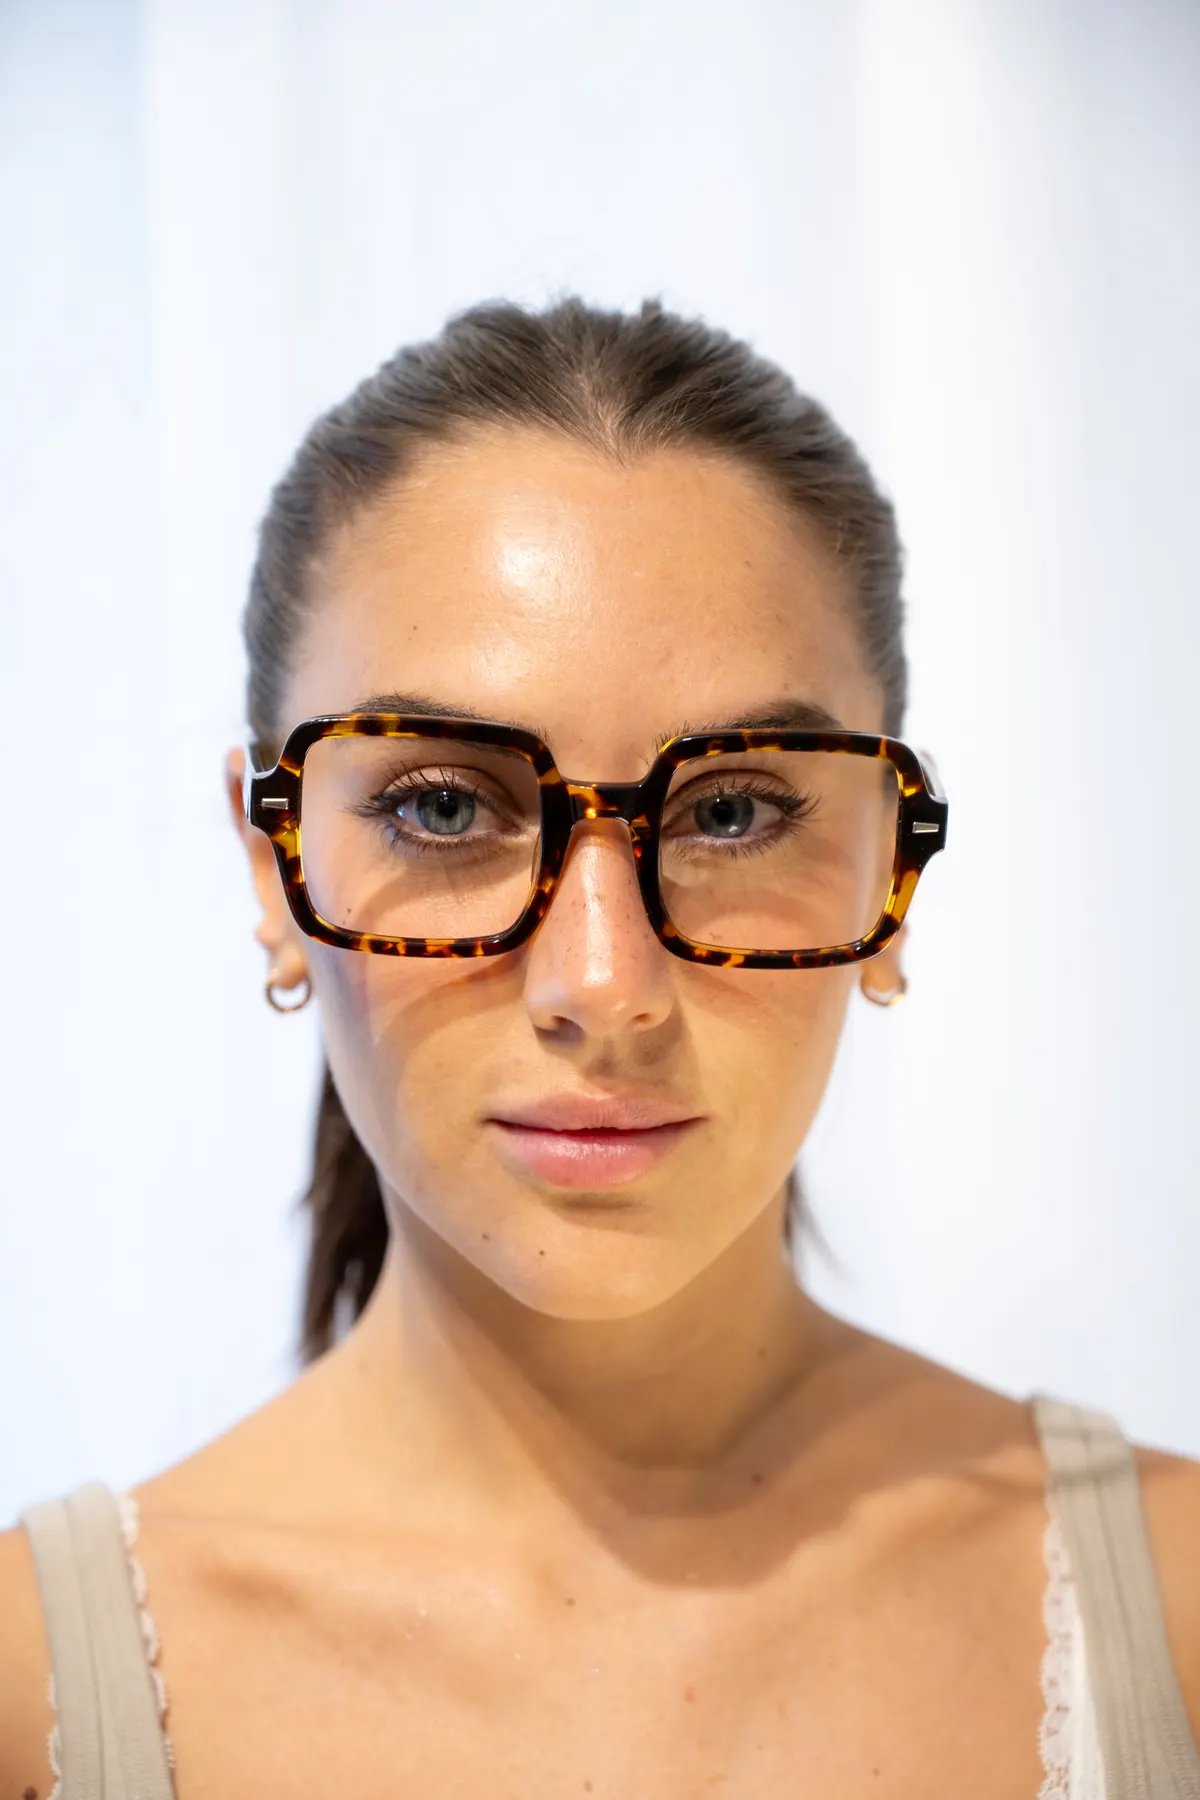
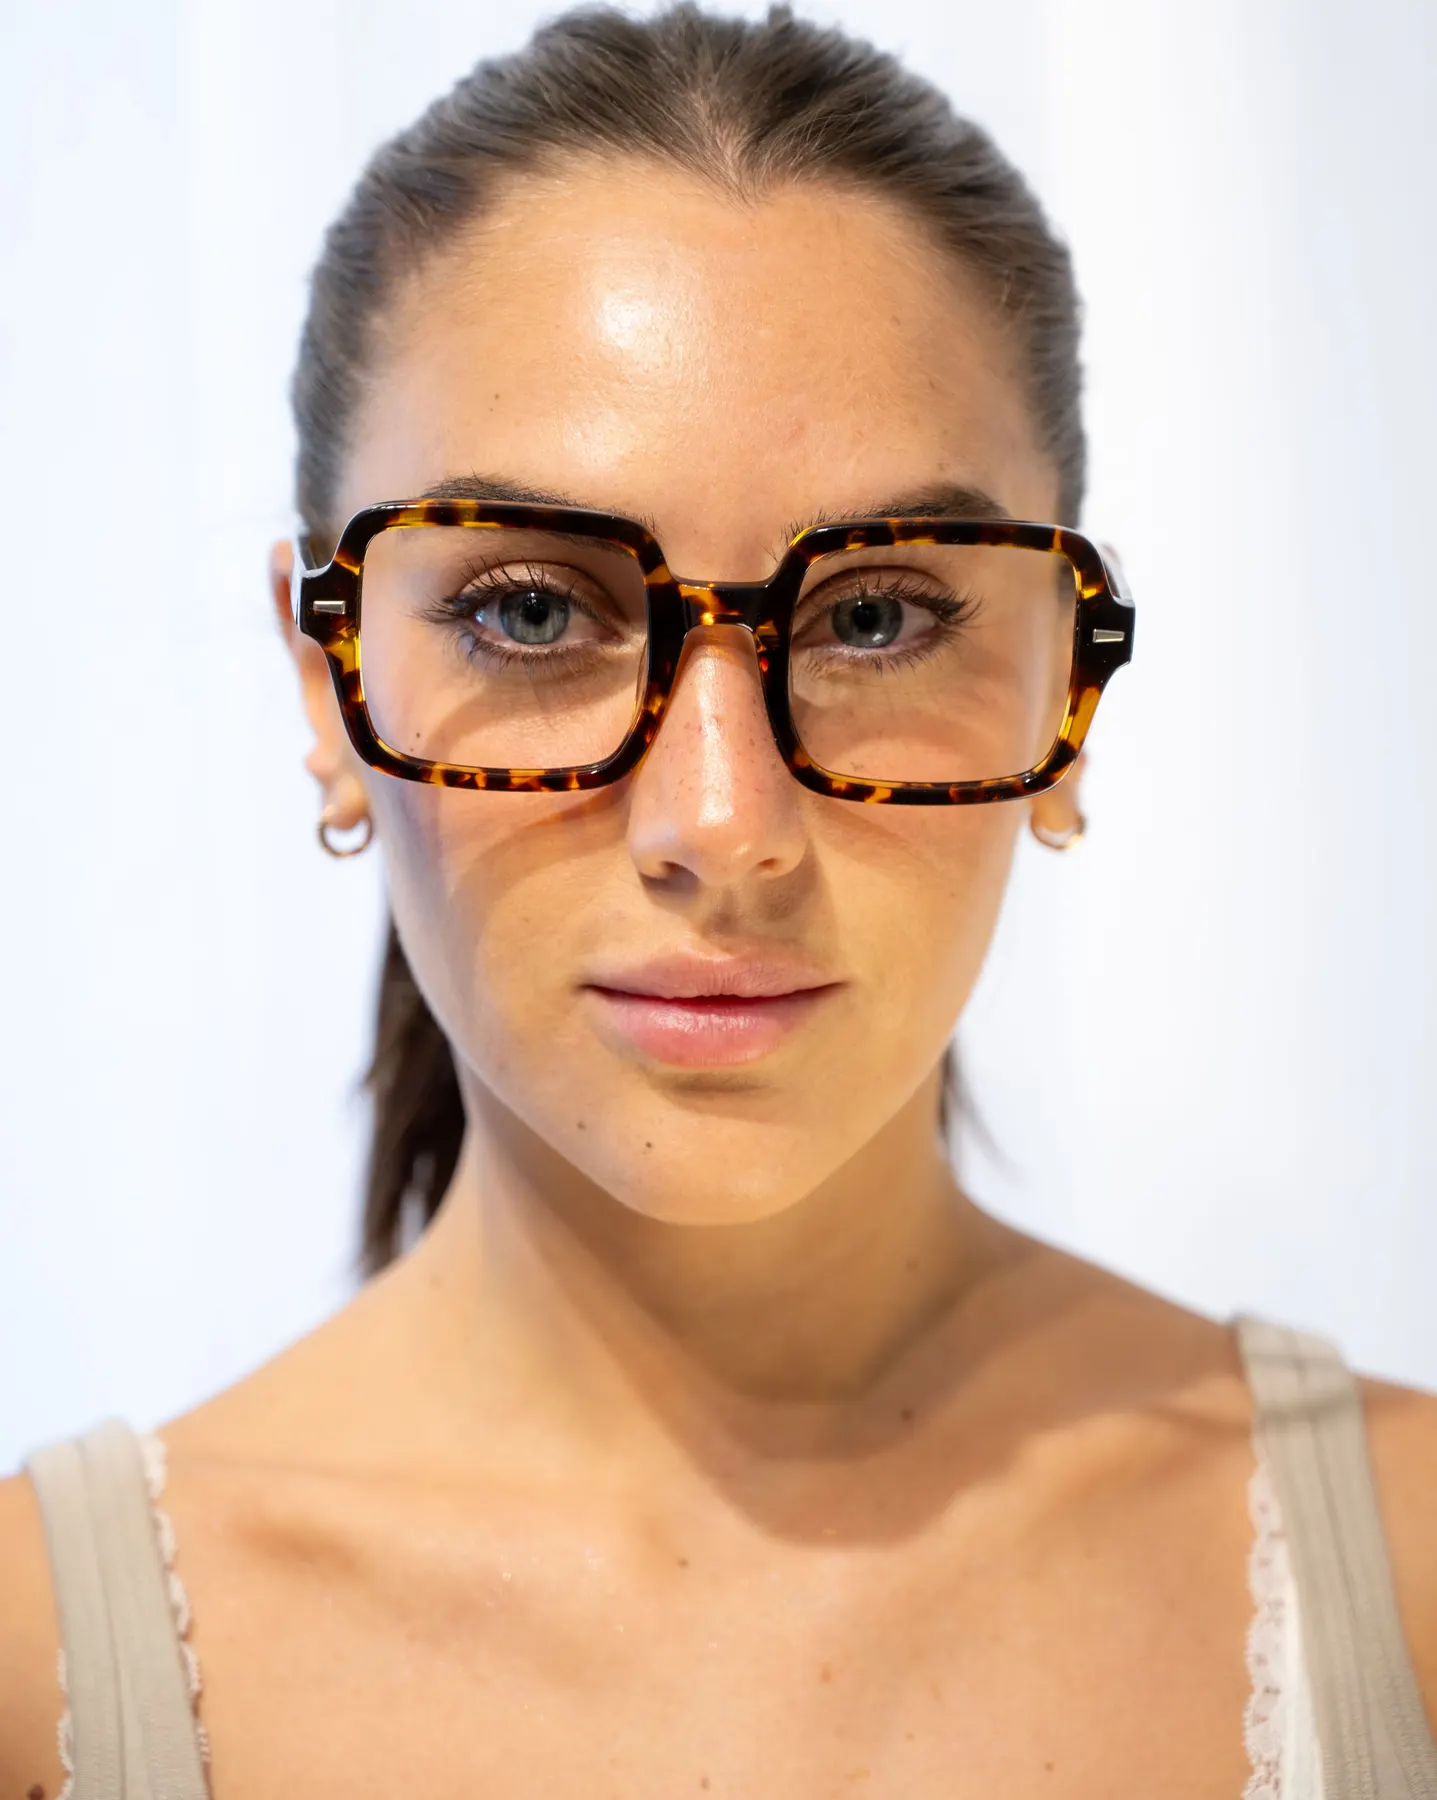
home carpetas: después del carrusel, Clip-on con Agostina, y la cabeza arranca en el borde de arriba
Pedido de Ishtar del 16/9/2026. Las portadas se recortan desde el tope del
pelo (detectado por las filas oscuras del centro de la foto), así el cuadro
no gasta un tercio en aire. Clip-on usa el Verona C1 con el clip amarillo
puesto y, en la variante editorial, el Mónaco con los clips en la mano.

diff --git a/src/app/page.tsx b/src/app/page.tsx
@@ -88,14 +88,14 @@ export default async function Home({ searchParams }: { searchParams: Promise<Rec
     !p.img.startsWith("/") || existsSync(join(process.cwd(), "public", p.img)));
   const carpetas: Carpeta[] = varianteCarpetas ? [
     { key: "sol", titulo: "Sol", bajada: "Acetato italiano y cristales polarizados. Para mirar de frente.", href: "/lentes-de-sol",
-      portada: "/images/home/carpetas/sol-adhara-frente.webp", portadaAlt: "/images/home/carpetas/sol-nashira-perfil.webp", foco: "center 18%",
+      portada: "/images/home/carpetas/sol-adhara-frente.webp", portadaAlt: "/images/home/carpetas/sol-nashira-perfil.webp", foco: "center top",
       cantidad: conteos?.sol ?? carouselData.sol.length, productos: conFoto(carouselData.sol) },
     { key: "receta", titulo: "Receta", bajada: "Armazones de autor para tus cristales. Medidos con el armazón puesto.", href: "/receta",
-      portada: "/images/home/carpetas/receta-victoria-perfil.webp", portadaAlt: "/images/home/carpetas/receta-dionisio-frente.webp", foco: "center 15%",
+      portada: "/images/home/carpetas/receta-victoria-perfil.webp", portadaAlt: "/images/home/carpetas/receta-dionisio-frente.webp", foco: "center top",
       cantidad: conteos?.receta ?? carouselData.receta.length, productos: conFoto(carouselData.receta) },
     { key: "clipon", titulo: "Clip-on", bajada: "Un armazón, dos anteojos: receta de día y sol con el clip imantado.", href: "/clip-on",
-      portada: "/images/products/clipon-g5919-c1-front.webp", foco: "center",
-      cantidad: conteos?.clipon || CLIPON_FALLBACK.length, productos: carouselData.clipon.length ? conFoto(carouselData.clipon) : CLIPON_FALLBACK, claro: true },
+      portada: "/images/home/carpetas/clipon-verona-frente.webp", portadaAlt: "/images/home/carpetas/clipon-monaco-manos.webp", foco: "center top",
+      cantidad: conteos?.clipon || CLIPON_FALLBACK.length, productos: carouselData.clipon.length ? conFoto(carouselData.clipon) : CLIPON_FALLBACK },
   ] : [];
 
   const organizationSchema = {
@@ -201,9 +201,6 @@ export default async function Home({ searchParams }: { searchParams: Promise<Rec
         </div>
       </div>
 
-      {/* PROTOTIPO — carpetas Sol / Receta / Clip-on (solo con ?carpetas=) */}
-      {varianteCarpetas && <HomeCarpetas carpetas={carpetas} variante={varianteCarpetas} totalCatalogo={catalogCount} />}
-
       {/* ═══════════════════════════════════════════════ */}
       {/* LATEST — Título + Catálogo horizontal scroll    */}
       {/* ═══════════════════════════════════════════════ */}
@@ -220,6 +217,9 @@ export default async function Home({ searchParams }: { searchParams: Promise<Rec
 
       {/* PRODUCT GRID — Scroll horizontal infinito en Cliente */}
       <HomeProductCarousel collections={carouselData} totalCount={catalogCount} conteos={homeData.conteos} />
+
+      {/* PROTOTIPO — carpetas Sol / Receta / Clip-on, después del carrusel (solo con ?carpetas=) */}
+      {varianteCarpetas && <HomeCarpetas carpetas={carpetas} variante={varianteCarpetas} totalCatalogo={catalogCount} />}
 
       {/* ═══════════════════════════════════════════════ */}
       {/* GOOGLE REVIEWS (REAL TIME - Server Component)   */}

diff --git a/src/components/Storefront/HomeCarpetas.tsx b/src/components/Storefront/HomeCarpetas.tsx
@@ -87,7 +87,7 @@ function VariantePuertas({ carpetas }: { carpetas: Carpeta[] }) {
               fill
               sizes="(max-width: 768px) 100vw, 34vw"
               className={`transition-transform duration-[1400ms] ease-out group-hover:scale-105 ${c.claro ? "object-contain p-10 pb-64 bg-white" : "object-cover"}`}
-              style={{ objectPosition: c.foco ?? "center 20%" }}
+              style={{ objectPosition: c.foco ?? "center top" }}
             />
             {/* Las fotos de la sesión son claras: el velo tiene que ser firme
                 abajo para que el texto blanco se lea, y desaparecer arriba. */}
@@ -133,12 +133,12 @@ function VarianteEditorial({ carpetas }: { carpetas: Carpeta[] }) {
           <div key={c.key} className={`grid md:grid-cols-2 border-t border-stone-200 ${fotoDerecha ? "md:[&>*:first-child]:order-2" : ""}`}>
             <Link href={c.href} className="group relative block aspect-[4/5] md:aspect-auto md:min-h-[88svh] overflow-hidden bg-black">
               <Image
-                src={c.portada}
+                src={c.key === "clipon" && c.portadaAlt ? c.portadaAlt : c.portada}
                 alt={`${c.titulo} — Atelier Óptica`}
                 fill
                 sizes="(max-width: 768px) 100vw, 50vw"
                 className={`transition-transform duration-[1400ms] ease-out group-hover:scale-105 ${c.claro ? "object-contain p-12 bg-stone-100" : "object-cover"}`}
-                style={{ objectPosition: c.foco ?? "center 20%" }}
+                style={{ objectPosition: c.foco ?? "center top" }}
               />
               <div className="absolute inset-0 bg-gradient-to-t from-black/70 via-transparent to-transparent md:hidden" />
               <div className="absolute bottom-6 left-6 text-white md:hidden">
@@ -184,7 +184,7 @@ function VarianteMosaico({ carpetas, totalCatalogo }: { carpetas: Carpeta[]; tot
         fill
         sizes={sizes}
         className={`transition-transform duration-[1400ms] ease-out group-hover:scale-105 ${c.claro ? "object-contain p-6 pb-28" : "object-cover"}`}
-        style={{ objectPosition: foco ?? c.foco ?? "center 20%" }}
+        style={{ objectPosition: foco ?? c.foco ?? "center top" }}
       />
       <div className={`absolute inset-0 ${c.claro ? "bg-gradient-to-t from-white via-white/50 via-22% to-transparent" : "bg-gradient-to-t from-black/85 via-black/40 via-35% to-transparent"}`} />
       <div className={`absolute left-6 bottom-6 lg:left-8 lg:bottom-8 ${c.claro ? "text-black" : "text-white"}`}>
@@ -205,8 +205,8 @@ function VarianteMosaico({ carpetas, totalCatalogo }: { carpetas: Carpeta[]; tot
   return (
     <section className="w-full bg-black" aria-label="Colecciones">
       <div className="grid md:grid-cols-2 md:grid-rows-2 md:h-[96svh] gap-px bg-white/10">
-        <Baldosa c={sol} sizes="(max-width: 768px) 100vw, 50vw" alta className="md:row-span-2" foco="center 25%" />
-        <Baldosa c={receta} sizes="(max-width: 768px) 100vw, 50vw" foco="center 44%" />
+        <Baldosa c={sol} sizes="(max-width: 768px) 100vw, 50vw" alta className="md:row-span-2" />
+        <Baldosa c={receta} sizes="(max-width: 768px) 100vw, 50vw" foco="center 22%" />
         <div className="grid grid-cols-2 gap-px bg-white/10">
           <Baldosa c={clipon} sizes="(max-width: 768px) 50vw, 25vw" />
           <Link href="/tienda" className="group relative block bg-white min-h-[48svh] md:min-h-0 overflow-hidden">
